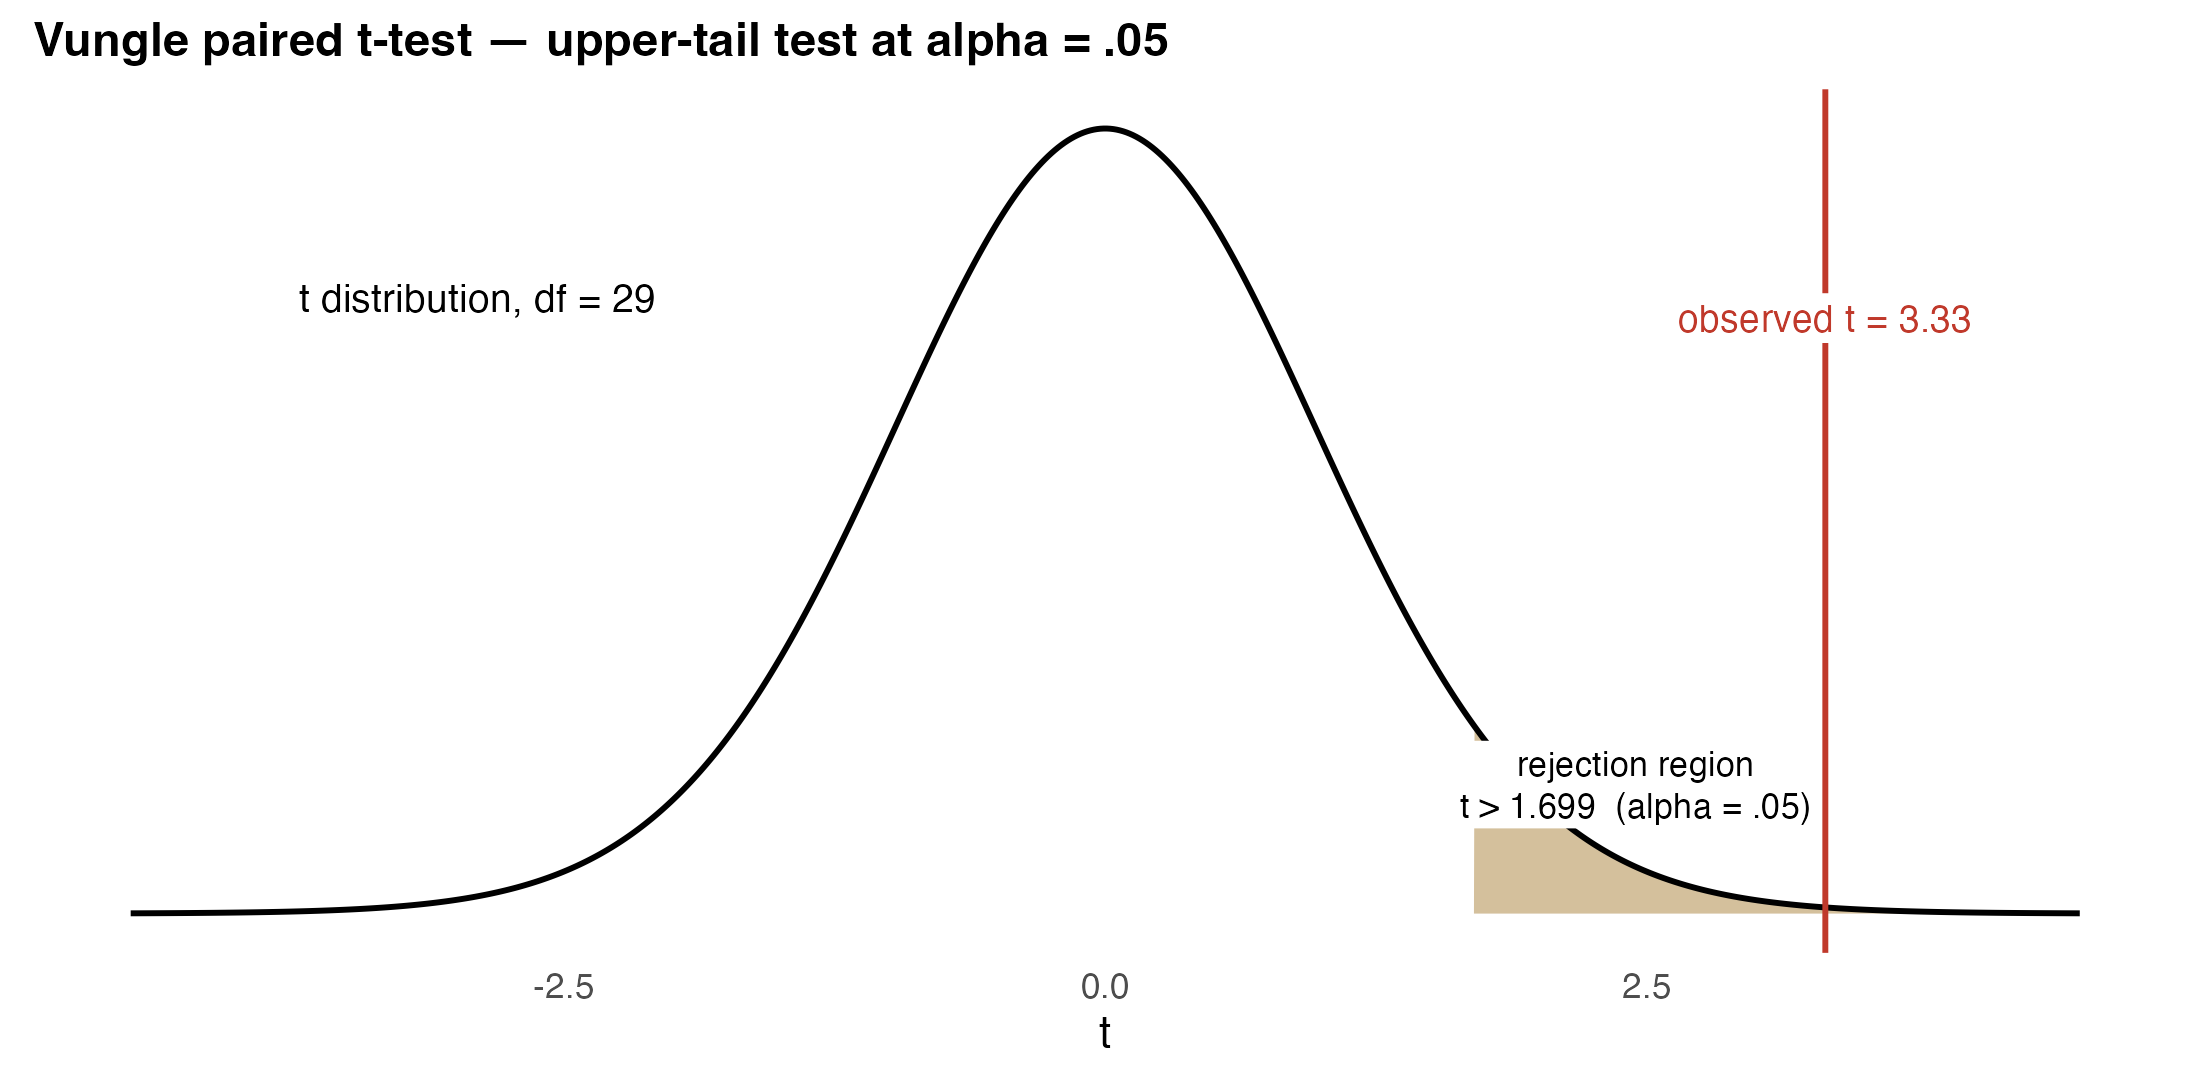
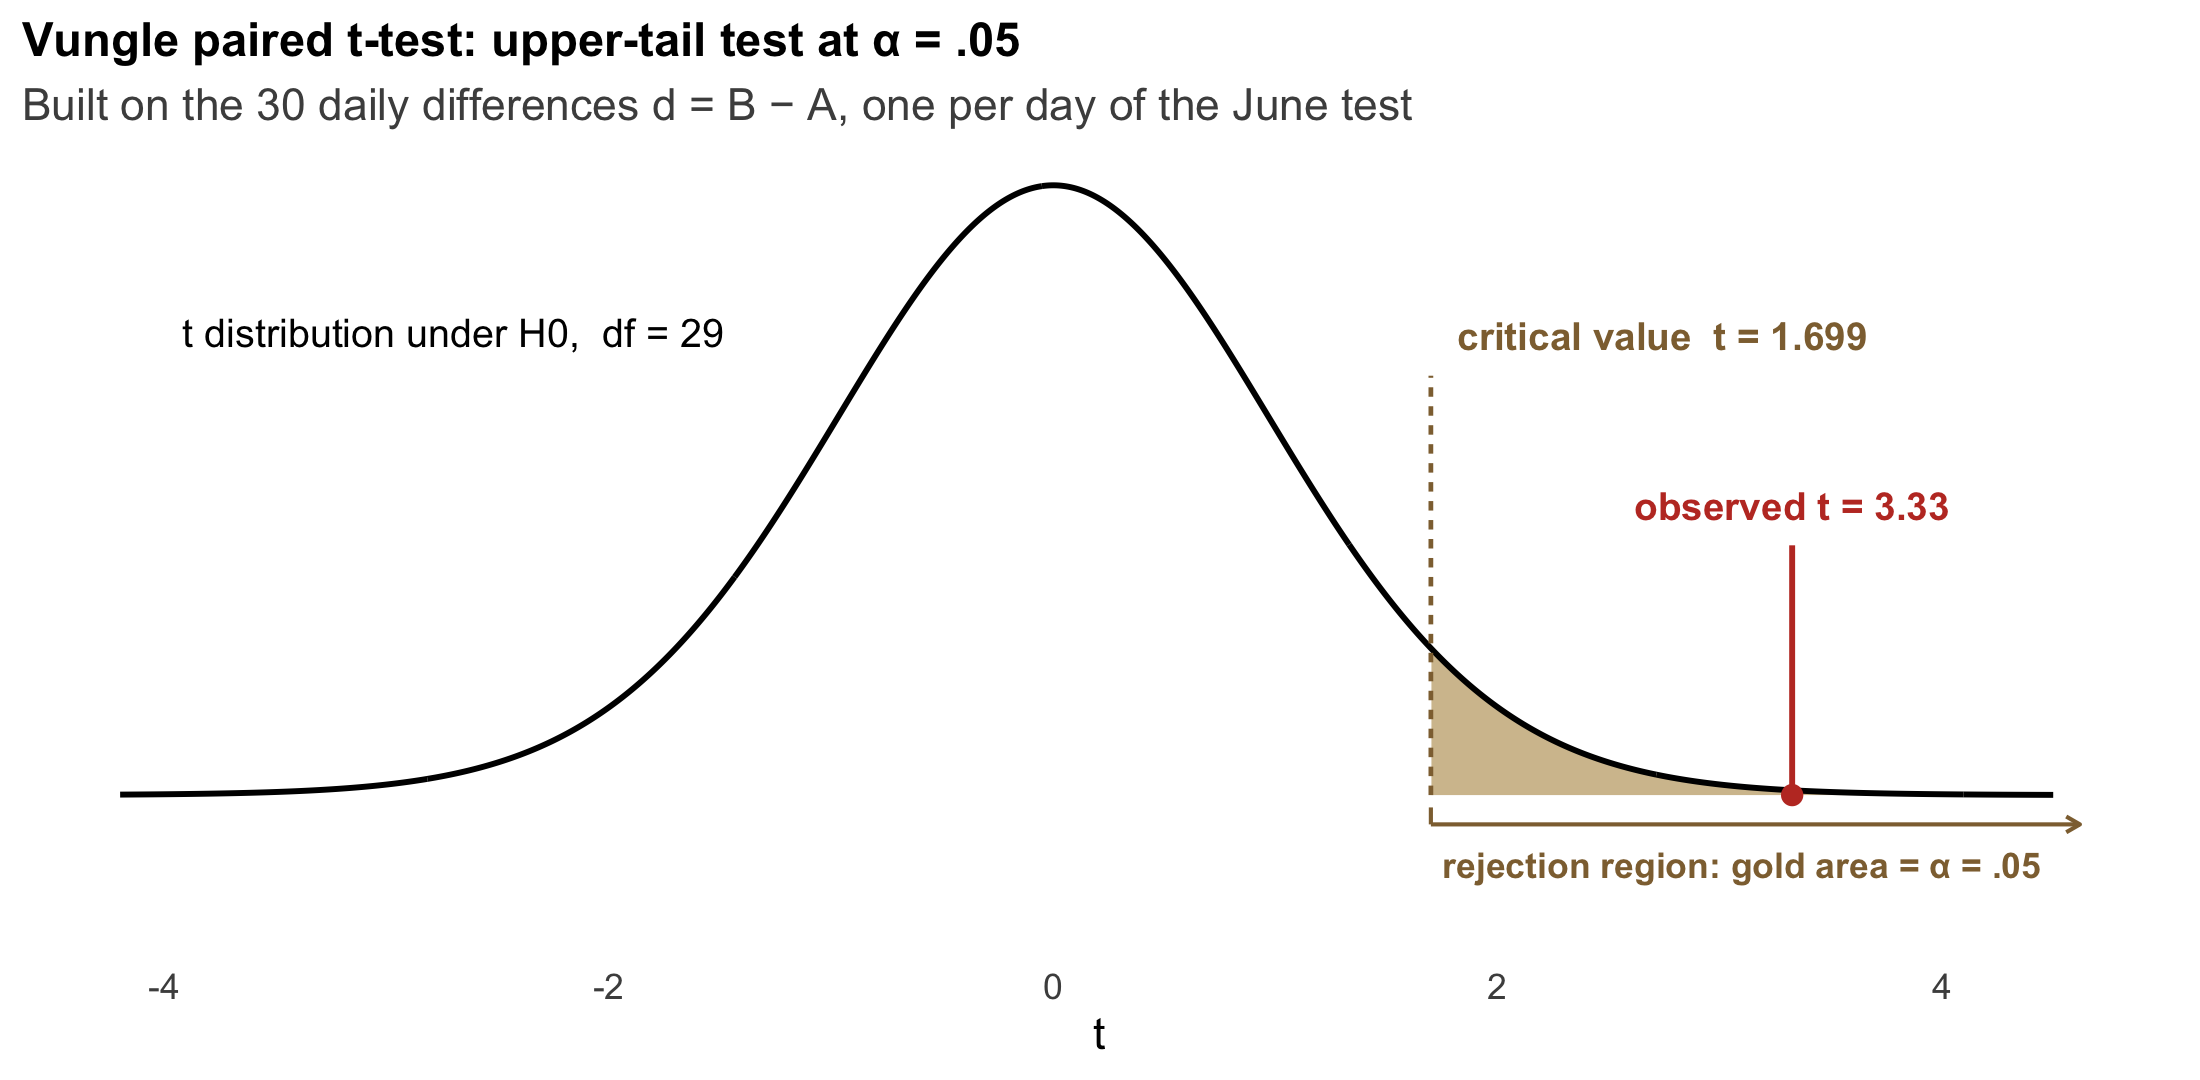
T09: unblock the slide-31 figure and fix two reveal sequences
Slide 31 (Step 4: Decision): the white label boxes punched holes in the
curve and in the observed-t rule. Rebuilt in the same idiom approved for
T08 slide 30, so every callout sits in clear space:

- no annotate("label") boxes at all (also sidesteps the ggplot2 4.0 change
  that ignores label.size and draws borders back in)
- the cutoff gets its own dashed rule + "critical value t = 1.699"
- the observed-t rule stops below its label, with a dot on the axis marking
  where t = 3.33 lands inside the gold
- an under-axis bracket with an open right end shows the region as
  "1.699 and everything above"
- "alpha" -> α, the title's em dash is gone (slide voice rule), and a
  subtitle names what the curve is built on: the 30 daily differences

Slides 44 and 46 (the two "Do It in Excel" walkthroughs): the closing
paragraph rendered immediately and jumped ahead of the numbered steps.
Wrapped both in ::: fragment so "Fail to reject" != "the means are equal"
and The $0.11 lift "disappears." now land after step 4.

Also repointed make_topic09_assets.R at _adm/ (the tree was renamed from
_adm_stuff/, so the script could no longer read its data).

diff --git a/docs/lecture_slides/09_chapter_hypothesis_tests_two_populations/09_chapter_hypothesis_tests_two_populations.html b/docs/lecture_slides/09_chapter_hypothesis_tests_two_populations/09_chapter_hypothesis_tests_two_populations.html
@@ -936,7 +936,9 @@ t = \frac{(5.73 - 7.87) - 0}{\sqrt{\dfrac{3.33^2}{15} + \dfrac{2.61^2}{15}}} = \
 <li class="fragment">Variable 1 = Bankrupt, Variable 2 = Non-bankrupt; Hypothesized Mean Difference <code>0</code>; Alpha <code>0.05</code>.</li>
 <li class="fragment">Click OK; read <code>t Stat = -1.96</code>, <code>df = 26</code>, <code>P(T&lt;=t) two-tail = 0.061</code> <span class="math inline">\(&gt; 0.05\)</span> → fail to reject <span class="math inline">\(H_0\)</span>.</li>
 </ol>
+<div class="fragment">
 <p><strong>“Fail to reject” ≠ “the means are equal.”</strong> With <span class="math inline">\(n = 15\)</span> per group the test has <strong>low power</strong>; a $2K average gap may be economically real yet statistically undetectable here. (Equal <span class="math inline">\(n\)</span>: pooled <span class="math inline">\(t\)</span> gives the same statistic with <span class="math inline">\(df = 28\)</span>, same conclusion.)</p>
+</div>
 </div><div class="column" style="width:54%;">
 <div class="quarto-figure quarto-figure-center">
 <figure>
@@ -961,7 +963,9 @@ t = \frac{(5.73 - 7.87) - 0}{\sqrt{\dfrac{3.33^2}{15} + \dfrac{2.61^2}{15}}} = \
 <li class="fragment">Variable 1 = <code>erpm_B</code>, Variable 2 = <code>erpm_A</code> (same order, so <span class="math inline">\(t\)</span> is positive); Alpha <code>0.05</code>.</li>
 <li class="fragment">Click OK; read <code>t Stat = 1.51</code>, <code>P(T&lt;=t) two-tail = 0.138</code> <span class="math inline">\(&gt; 0.05\)</span> → fail to reject.</li>
 </ol>
+<div class="fragment">
 <p><strong>The $0.11 lift “disappears.”</strong> Same numbers (<span class="math inline">\(\bar{x}_A = 3.347\)</span>, <span class="math inline">\(\bar{x}_B = 3.459\)</span>), wrong design, opposite call.</p>
+</div>
 </div><div class="column" style="width:54%;">
 <div class="quarto-figure quarto-figure-center">
 <figure>
